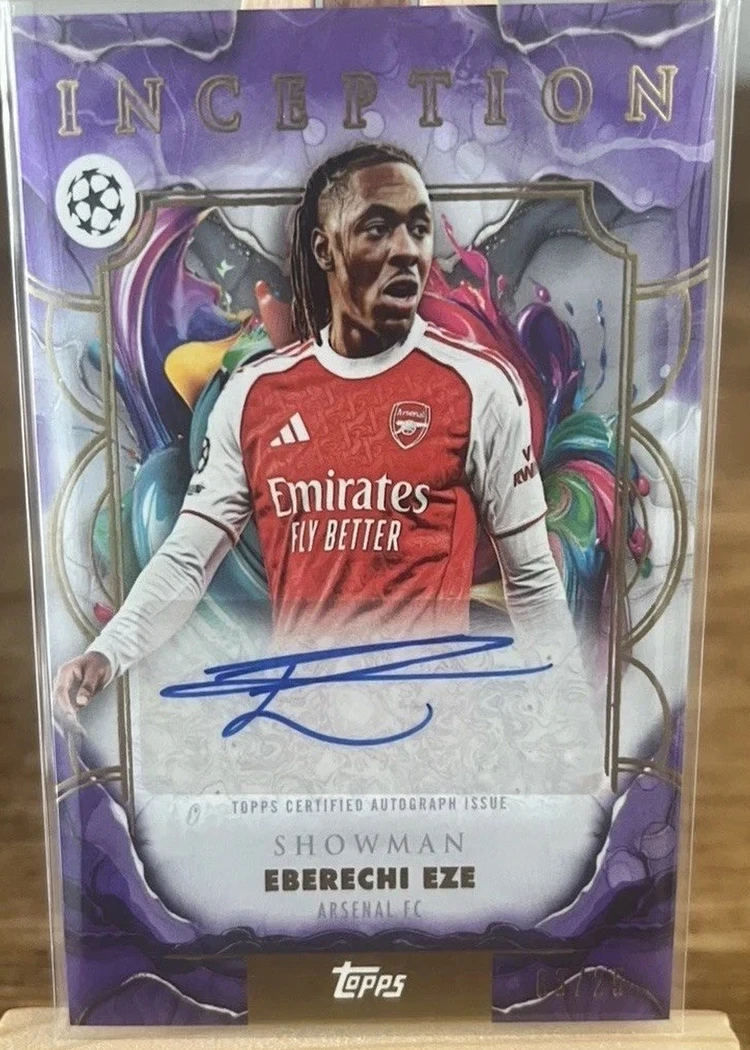
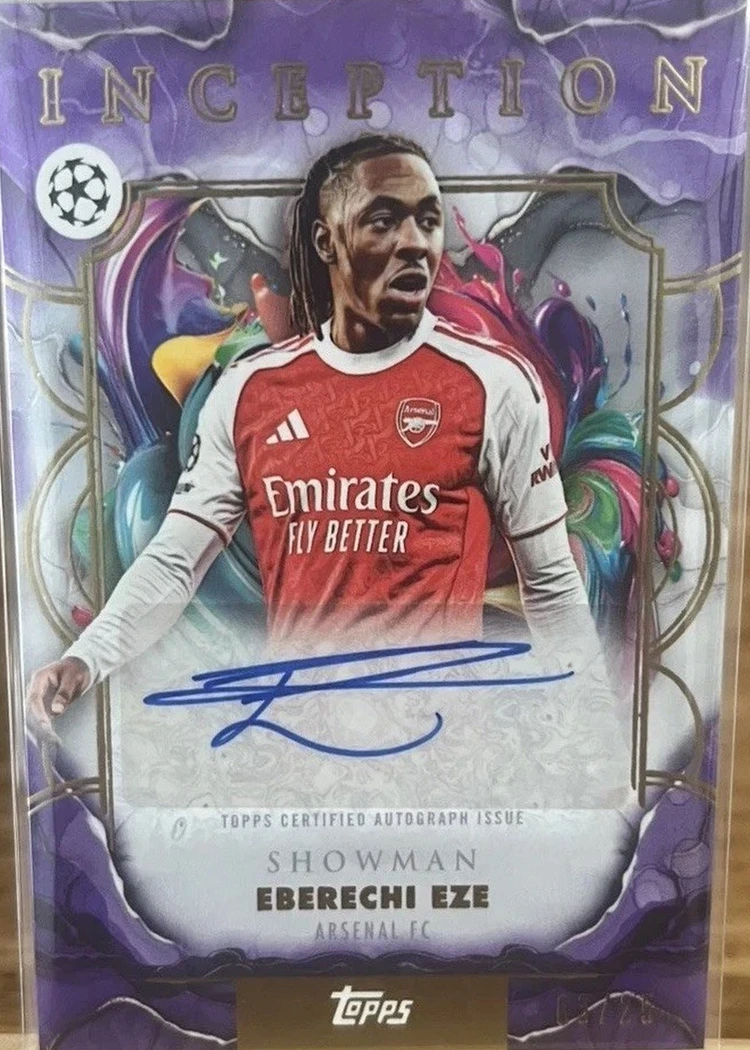
fix: clean up two Inception card images

diff --git a/scripts/rectify-inception-ucc-assets.py b/scripts/rectify-inception-ucc-assets.py
@@ -21,7 +21,7 @@ ASSETS = [
     ("09-auto-first-xi-vitinha-purple-25.webp", "first-xi-autographs", [(98, 112), (1068, 114), (1068, 1490), (97, 1490)], (750, 1050)),
     ("10-auto-emerging-stars-max-dowman-red-10.webp", "emerging-stars-autographs", [(211, 245), (971, 244), (971, 1327), (211, 1329)], (750, 1050)),
     ("11-auto-succession-ibrahim-mbaye-orange-5.webp", "succession-autographs", [(176, 185), (1040, 184), (1008, 1318), (218, 1318)], (750, 1050)),
-    ("12-auto-showman-eberechi-eze-purple-25.webp", "showman-autographs", [(120, 126), (840, 139), (840, 1017), (121, 1014)], (750, 1050)),
+    ("12-auto-showman-eberechi-eze-purple-25.webp", "showman-autographs", [(139, 137), (810, 146), (803, 992), (154, 991)], (750, 1050)),
     ("13-auto-star-quality-zubimendi-red-10.webp", "star-quality-autographs", [(84, 67), (1123, 67), (1122, 1513), (80, 1510)], (750, 1050)),
     ("14-auto-superior-legends-caroline-graham-hansen.webp", "superior-legends-autographs", [(172, 175), (990, 175), (990, 1319), (172, 1319)], (750, 1050)),
     ("15-auto-worldwide-rafael-marquez-purple-25.webp", "worldwide-autographs", [(243, 280), (846, 302), (846, 1182), (191, 1182)], (750, 1050)),
